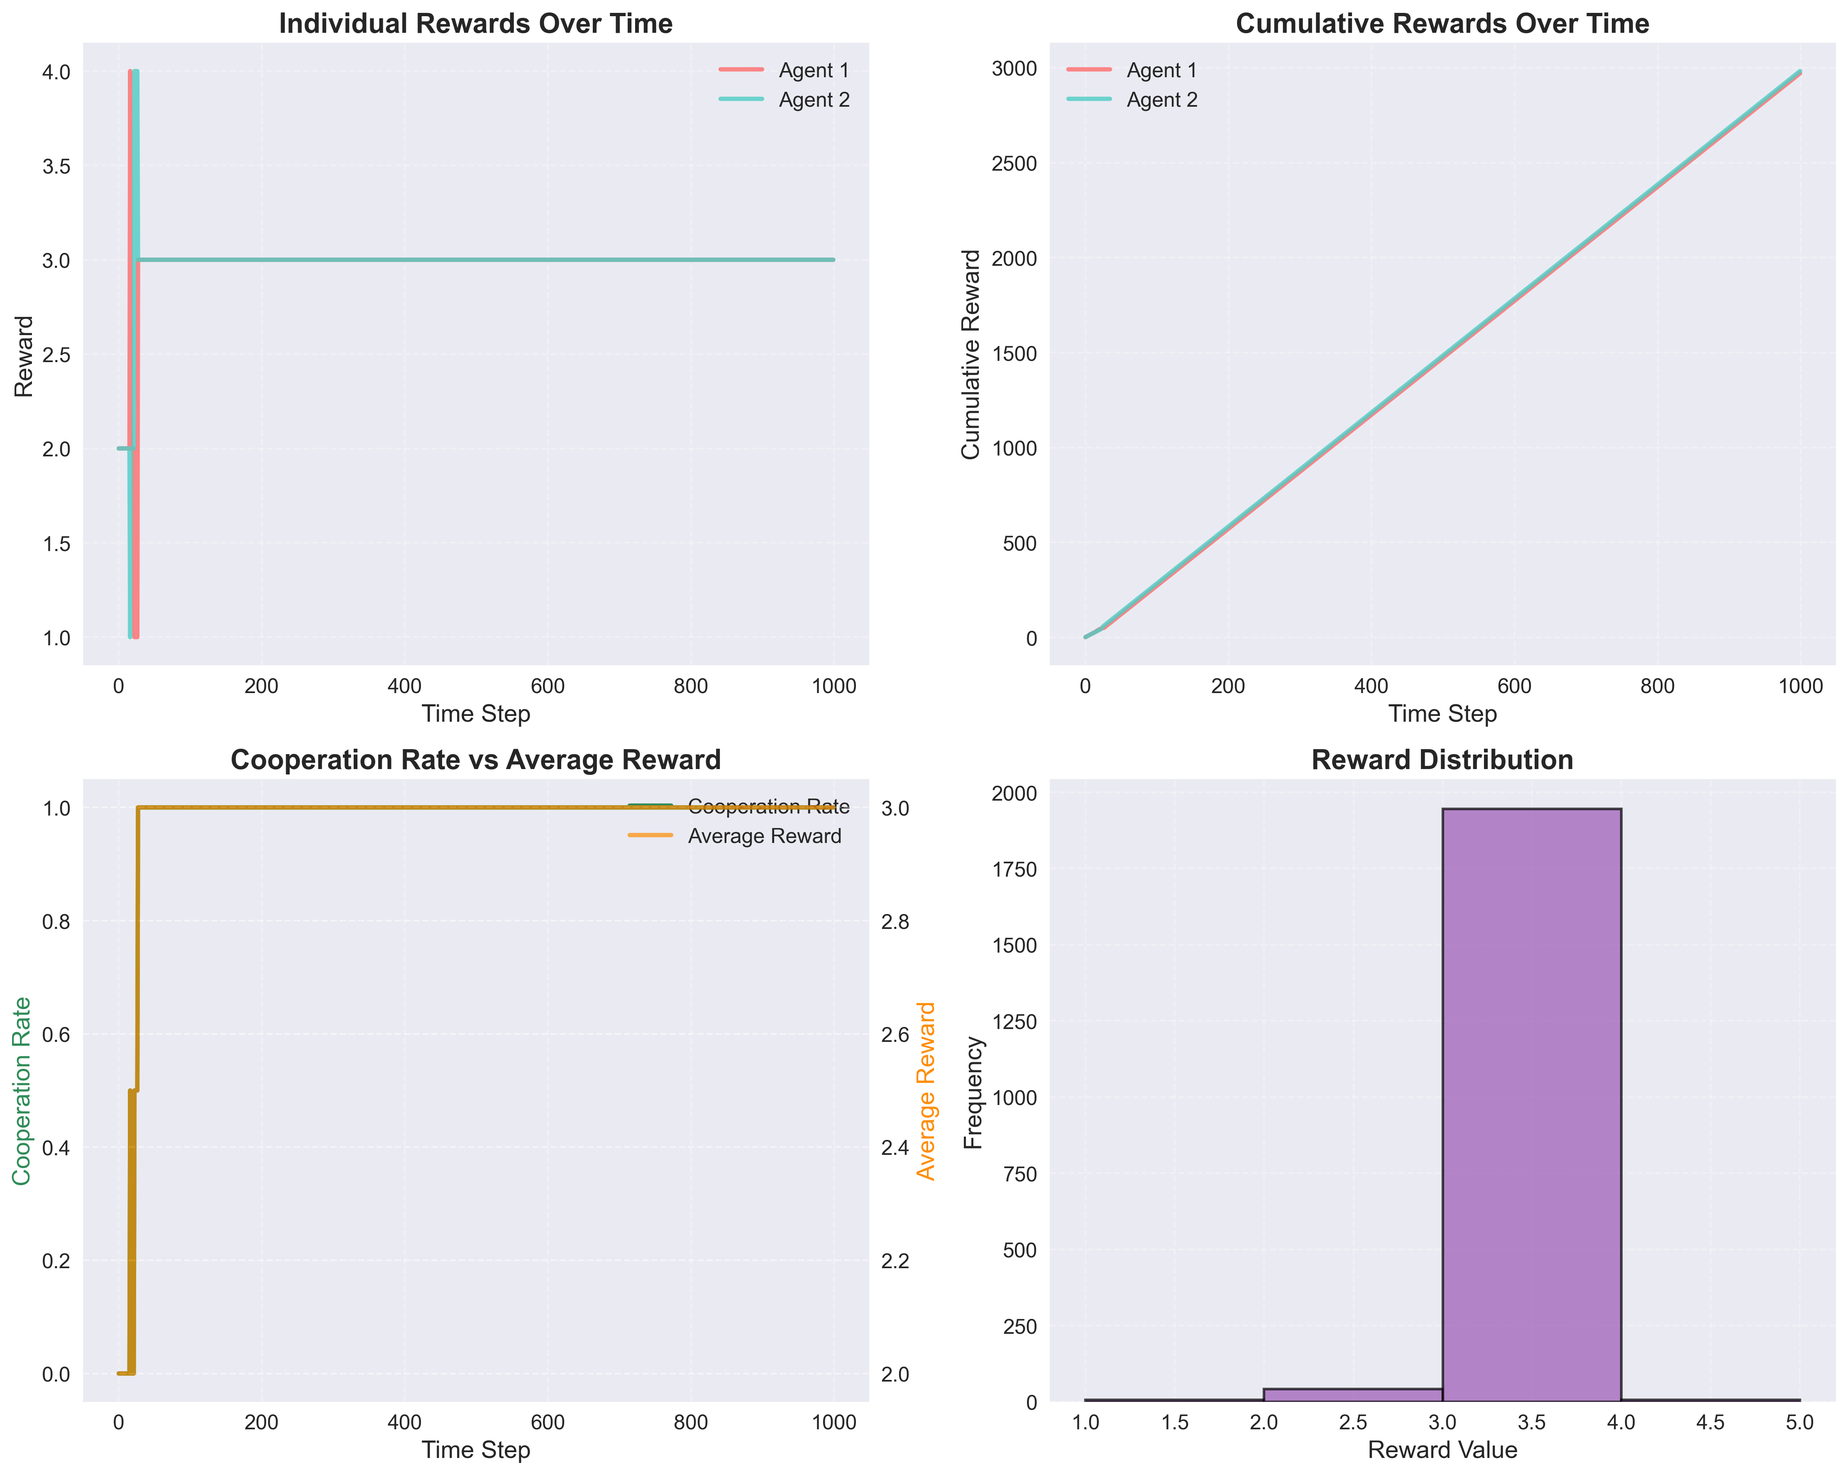
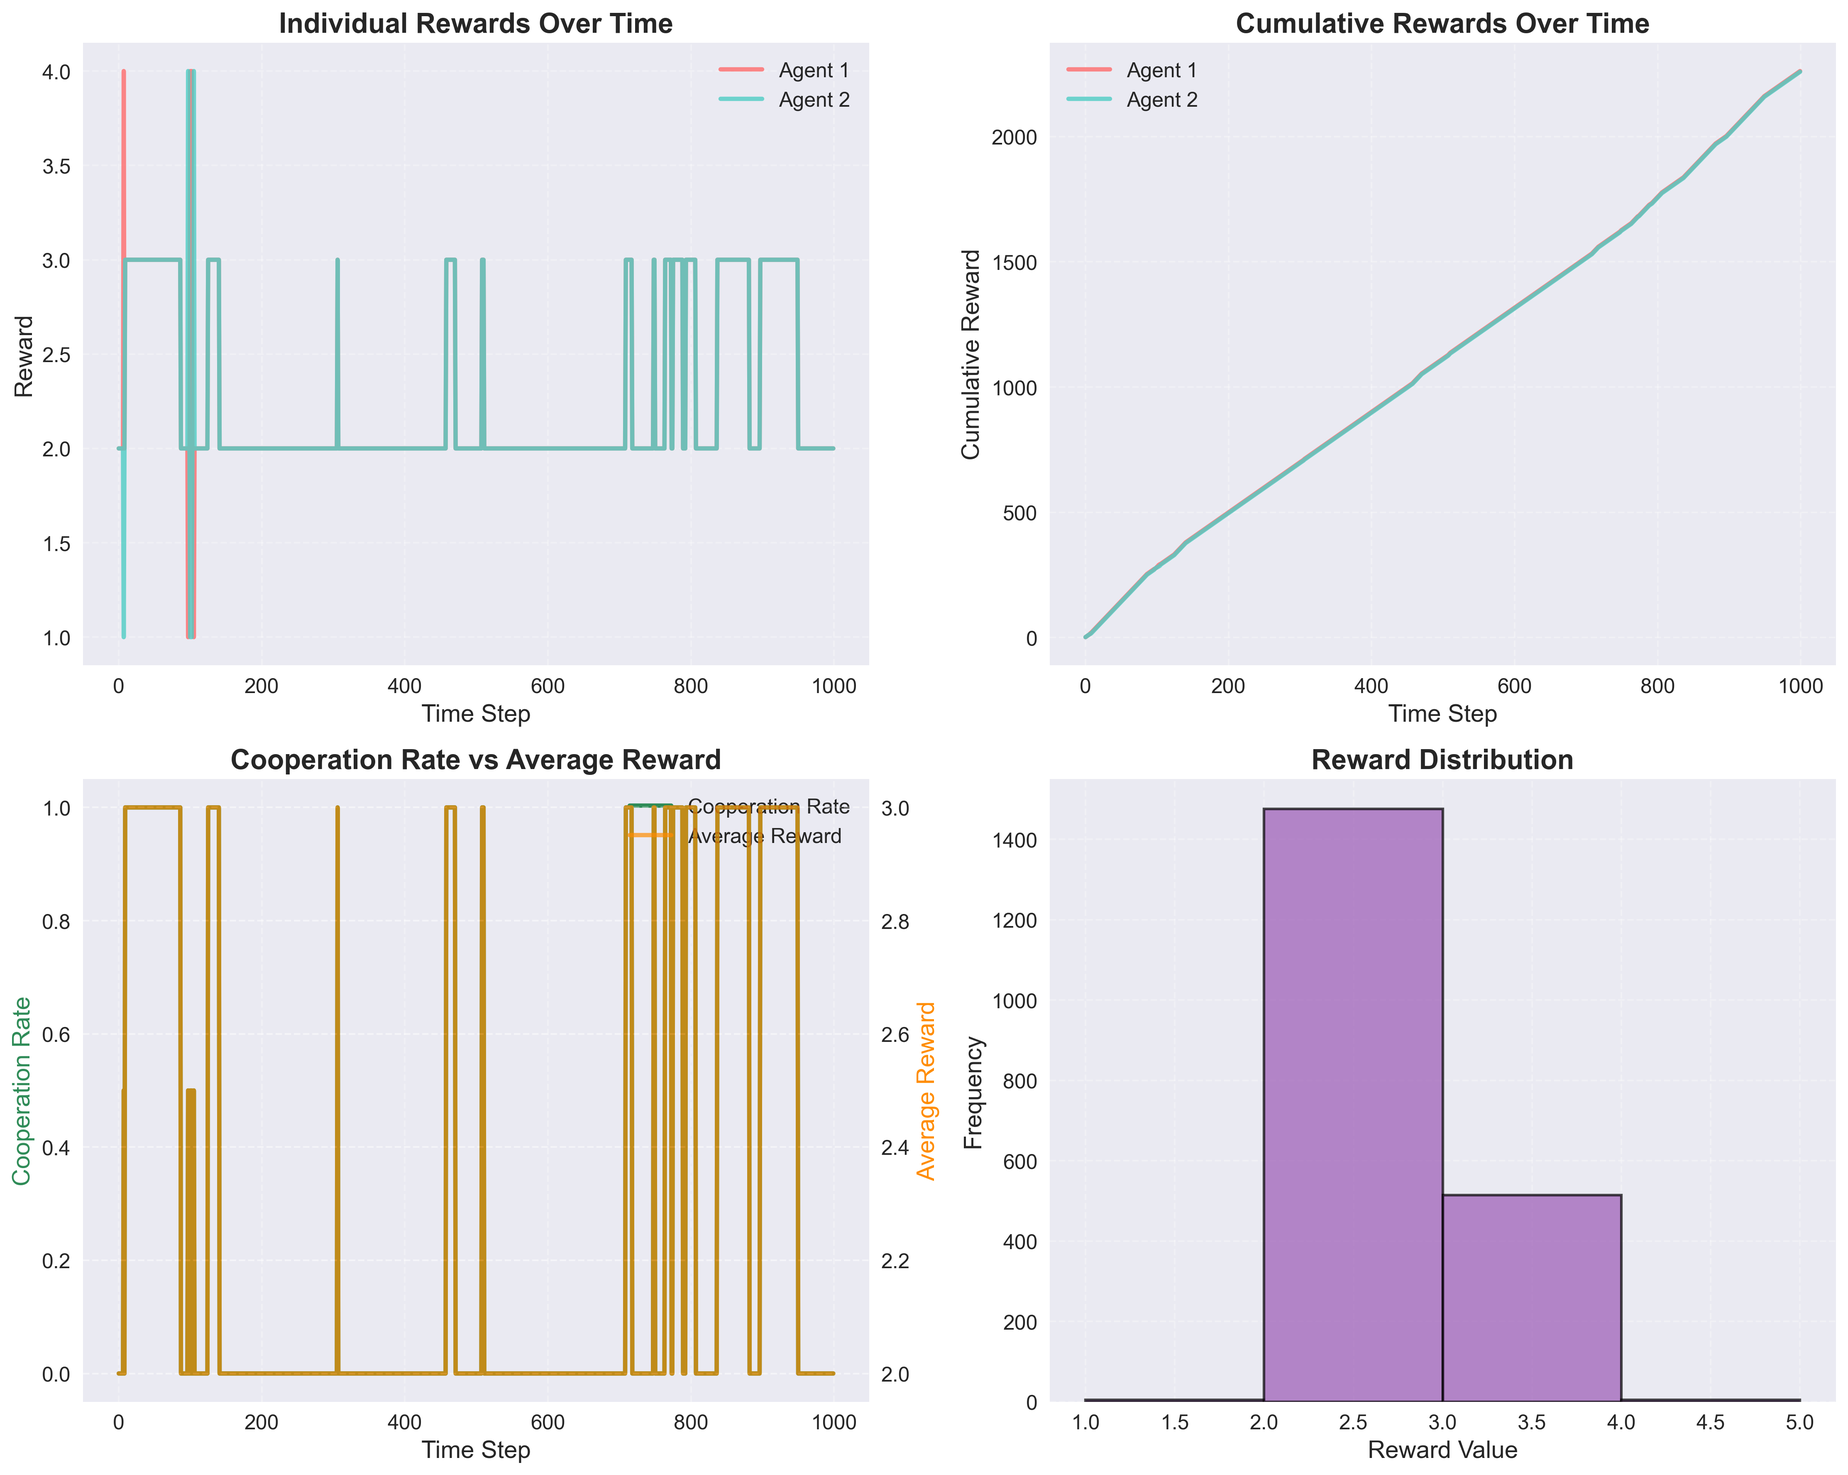
make more interestign

diff --git a/src/generate_figures.py b/src/generate_figures.py
@@ -262,11 +262,14 @@ def create_network_visualization_enhanced(save_path="figures/enhanced_network.pn
 
 
 def create_comparison_analysis(save_path="figures/comparison_analysis.png"):
-    """Create comparison analysis of different scenarios."""
+    """Create comparison analysis of different scenarios with more diverse parameters."""
+    # More diverse scenarios with different learning rates, precision, and action selection
     scenarios = [
-        {"lr1": 0.05, "lr2": 0.05, "name": "Low Learning Rates", "color": "#3498DB"},
-        {"lr1": 0.3, "lr2": 0.3, "name": "High Learning Rates", "color": "#E74C3C"},
-        {"lr1": 0.05, "lr2": 0.3, "name": "Asymmetric Learning", "color": "#2ECC71"},
+        {"lr1": 0.01, "lr2": 0.01, "alpha1": 0.5, "alpha2": 0.5, "name": "Very Low Learning + Low Precision", "color": "#3498DB"},
+        {"lr1": 0.5, "lr2": 0.5, "alpha1": 5.0, "alpha2": 5.0, "name": "High Learning + High Precision", "color": "#E74C3C"},
+        {"lr1": 0.01, "lr2": 0.5, "alpha1": 1.0, "alpha2": 1.0, "name": "Asymmetric Learning", "color": "#2ECC71"},
+        {"lr1": 0.2, "lr2": 0.2, "alpha1": 0.1, "alpha2": 0.1, "name": "Medium Learning + Very Low Precision", "color": "#F39C12"},
+        {"lr1": 0.05, "lr2": 0.05, "alpha1": 10.0, "alpha2": 10.0, "name": "Low Learning + Very High Precision", "color": "#9B59B6"},
     ]
     
     fig, ((ax1, ax2), (ax3, ax4)) = plt.subplots(2, 2, figsize=(16, 12))
@@ -274,21 +277,21 @@ def create_comparison_analysis(save_path="figures/comparison_analysis.png"):
     all_results = {}
     
     for scenario in scenarios:
-        # Create agents
+        # Create agents with more diverse parameters
         agent_1, agent_2, D = construct_agents(
             lr_pB_1=scenario["lr1"], 
             lr_pB_2=scenario["lr2"], 
             factors_to_learn="all",
             action_selection="stochastic",
-            alpha_1=1.0,
-            alpha_2=1.0
+            alpha_1=scenario["alpha1"],
+            alpha_2=scenario["alpha2"]
         )
         
         # Create simulation
         sim = DualAgentSimulation(agent_1, agent_2)
         
         # Run simulation
-        results = sim.run_simulation(T=500, initial_obs_1=[0], initial_obs_2=[0])
+        results = sim.run_simulation(T=800, initial_obs_1=[0], initial_obs_2=[0])
         all_results[scenario['name']] = results
         
         # Plot cooperation rate
@@ -300,8 +303,8 @@ def create_comparison_analysis(save_path="figures/comparison_analysis.png"):
     
     ax1.set_xlabel('Time Step')
     ax1.set_ylabel('Cooperation Rate')
-    ax1.set_title('Cooperation Rate Comparison', fontweight='bold')
-    ax1.legend()
+    ax1.set_title('Cooperation Rate Comparison - Diverse Parameters', fontweight='bold')
+    ax1.legend(fontsize=10)
     ax1.grid(True, alpha=0.3)
     
     # Final cooperation rates
@@ -309,13 +312,15 @@ def create_comparison_analysis(save_path="figures/comparison_analysis.png"):
     scenario_names = []
     for scenario in scenarios:
         actions = all_results[scenario['name']]['actions']
-        final_rate = 1 - np.mean(actions[-50:], axis=1).mean()  # Last 50 steps
+        final_rate = 1 - np.mean(actions[-100:], axis=1).mean()  # Last 100 steps
         final_rates.append(final_rate)
-        scenario_names.append(scenario['name'])
+        scenario_names.append(scenario['name'][:20] + "...")  # Truncate long names
     
-    bars = ax2.bar(scenario_names, final_rates, color=[s['color'] for s in scenarios], alpha=0.7)
+    bars = ax2.bar(range(len(scenario_names)), final_rates, color=[s['color'] for s in scenarios], alpha=0.7)
     ax2.set_ylabel('Final Cooperation Rate')
     ax2.set_title('Final Cooperation Rates by Scenario', fontweight='bold')
+    ax2.set_xticks(range(len(scenario_names)))
+    ax2.set_xticklabels(scenario_names, rotation=45, ha='right')
     ax2.grid(True, alpha=0.3, axis='y')
     
     # Add value labels on bars
@@ -330,17 +335,19 @@ def create_comparison_analysis(save_path="figures/comparison_analysis.png"):
         actions = all_results[scenario['name']]['actions']
         # Find time to convergence (when cooperation rate stabilizes)
         cooperation_rate = 1 - np.mean(actions, axis=1)
-        # Simple convergence metric: when rate changes less than 0.1 for 20 steps
-        for t in range(20, len(cooperation_rate)):
-            if np.std(cooperation_rate[t-20:t]) < 0.1:
+        # More sophisticated convergence metric: when rate changes less than 0.05 for 30 steps
+        for t in range(30, len(cooperation_rate)):
+            if np.std(cooperation_rate[t-30:t]) < 0.05:
                 convergence_times.append(t)
                 break
         else:
             convergence_times.append(len(cooperation_rate))
     
-    bars = ax3.bar(scenario_names, convergence_times, color=[s['color'] for s in scenarios], alpha=0.7)
+    bars = ax3.bar(range(len(scenario_names)), convergence_times, color=[s['color'] for s in scenarios], alpha=0.7)
     ax3.set_ylabel('Convergence Time (Steps)')
     ax3.set_title('Time to Strategy Convergence', fontweight='bold')
+    ax3.set_xticks(range(len(scenario_names)))
+    ax3.set_xticklabels(scenario_names, rotation=45, ha='right')
     ax3.grid(True, alpha=0.3, axis='y')
     
     # Add value labels on bars
@@ -373,8 +380,157 @@ def create_comparison_analysis(save_path="figures/comparison_analysis.png"):
     ax4.set_xlabel('Time Step')
     ax4.set_ylabel('Average Cumulative Reward')
     ax4.set_title('Average Cumulative Rewards', fontweight='bold')
-    ax4.legend()
+    ax4.legend(fontsize=10)
     ax4.grid(True, alpha=0.3)
+    
+    plt.tight_layout()
+    plt.savefig(save_path, bbox_inches='tight', facecolor='white')
+    plt.close()
+
+
+def create_learning_dynamics_analysis(save_path="figures/learning_dynamics.png"):
+    """Create analysis of learning dynamics with different initial conditions."""
+    fig, ((ax1, ax2), (ax3, ax4)) = plt.subplots(2, 2, figsize=(16, 12))
+    
+    # Different initial conditions and parameters
+    scenarios = [
+        {"lr1": 0.05, "lr2": 0.05, "alpha1": 1.0, "alpha2": 1.0, "init1": [0], "init2": [0], "name": "Both Start Cooperative", "color": "#3498DB"},
+        {"lr1": 0.05, "lr2": 0.05, "alpha1": 1.0, "alpha2": 1.0, "init1": [3], "init2": [3], "name": "Both Start Defecting", "color": "#E74C3C"},
+        {"lr1": 0.05, "lr2": 0.05, "alpha1": 1.0, "alpha2": 1.0, "init1": [0], "init2": [3], "name": "Mixed Initial State", "color": "#2ECC71"},
+        {"lr1": 0.3, "lr2": 0.3, "alpha1": 1.0, "alpha2": 1.0, "init1": [0], "init2": [0], "name": "High Learning Rate", "color": "#F39C12"},
+    ]
+    
+    for scenario in scenarios:
+        # Create agents
+        agent_1, agent_2, D = construct_agents(
+            lr_pB_1=scenario["lr1"], 
+            lr_pB_2=scenario["lr2"], 
+            factors_to_learn="all",
+            action_selection="stochastic",
+            alpha_1=scenario["alpha1"],
+            alpha_2=scenario["alpha2"]
+        )
+        
+        # Create simulation
+        sim = DualAgentSimulation(agent_1, agent_2)
+        
+        # Run simulation with different initial conditions
+        results = sim.run_simulation(T=600, initial_obs_1=scenario["init1"], initial_obs_2=scenario["init2"])
+        
+        # Plot cooperation rate
+        actions = results['actions']
+        cooperation_rate = 1 - np.mean(actions, axis=1)
+        time_steps = np.arange(len(cooperation_rate))
+        ax1.plot(time_steps, cooperation_rate, color=scenario['color'], linewidth=2.5, 
+                label=scenario['name'], alpha=0.8)
+    
+    ax1.set_xlabel('Time Step')
+    ax1.set_ylabel('Cooperation Rate')
+    ax1.set_title('Learning Dynamics: Initial Conditions Matter', fontweight='bold')
+    ax1.legend()
+    ax1.grid(True, alpha=0.3)
+    
+    # Strategy evolution analysis
+    for scenario in scenarios:
+        agent_1, agent_2, D = construct_agents(
+            lr_pB_1=scenario["lr1"], 
+            lr_pB_2=scenario["lr2"], 
+            factors_to_learn="all",
+            action_selection="stochastic",
+            alpha_1=scenario["alpha1"],
+            alpha_2=scenario["alpha2"]
+        )
+        
+        sim = DualAgentSimulation(agent_1, agent_2)
+        results = sim.run_simulation(T=600, initial_obs_1=scenario["init1"], initial_obs_2=scenario["init2"])
+        
+        # Plot individual agent strategies
+        actions = results['actions']
+        for i in range(2):
+            cooperation = 1 - actions[:, i]
+            ax2.plot(time_steps, cooperation, color=scenario['color'], linewidth=2, 
+                    alpha=0.6, linestyle='--' if i == 1 else '-')
+    
+    ax2.set_xlabel('Time Step')
+    ax2.set_ylabel('Individual Cooperation Level')
+    ax2.set_title('Individual Agent Strategy Evolution', fontweight='bold')
+    ax2.grid(True, alpha=0.3)
+    
+    # Reward dynamics
+    for scenario in scenarios:
+        agent_1, agent_2, D = construct_agents(
+            lr_pB_1=scenario["lr1"], 
+            lr_pB_2=scenario["lr2"], 
+            factors_to_learn="all",
+            action_selection="stochastic",
+            alpha_1=scenario["alpha1"],
+            alpha_2=scenario["alpha2"]
+        )
+        
+        sim = DualAgentSimulation(agent_1, agent_2)
+        results = sim.run_simulation(T=600, initial_obs_1=scenario["init1"], initial_obs_2=scenario["init2"])
+        
+        actions = results['actions']
+        rewards = np.zeros((len(actions), 2))
+        for t in range(len(actions)):
+            action_1, action_2 = actions[t]
+            if action_1 == 0 and action_2 == 0:
+                rewards[t] = [3, 3]
+            elif action_1 == 0 and action_2 == 1:
+                rewards[t] = [1, 4]
+            elif action_1 == 1 and action_2 == 0:
+                rewards[t] = [4, 1]
+            else:
+                rewards[t] = [2, 2]
+        
+        avg_reward = np.mean(rewards, axis=1)
+        ax3.plot(time_steps, avg_reward, color=scenario['color'], linewidth=2.5, 
+                label=scenario['name'], alpha=0.8)
+    
+    ax3.set_xlabel('Time Step')
+    ax3.set_ylabel('Average Reward')
+    ax3.set_title('Average Reward Dynamics', fontweight='bold')
+    ax3.legend()
+    ax3.grid(True, alpha=0.3)
+    
+    # Strategy stability analysis
+    stability_metrics = []
+    scenario_names = []
+    
+    for scenario in scenarios:
+        agent_1, agent_2, D = construct_agents(
+            lr_pB_1=scenario["lr1"], 
+            lr_pB_2=scenario["lr2"], 
+            factors_to_learn="all",
+            action_selection="stochastic",
+            alpha_1=scenario["alpha1"],
+            alpha_2=scenario["alpha2"]
+        )
+        
+        sim = DualAgentSimulation(agent_1, agent_2)
+        results = sim.run_simulation(T=600, initial_obs_1=scenario["init1"], initial_obs_2=scenario["init2"])
+        
+        actions = results['actions']
+        cooperation_rate = 1 - np.mean(actions, axis=1)
+        
+        # Calculate stability metric (inverse of variance in last 100 steps)
+        final_variance = np.var(cooperation_rate[-100:])
+        stability = 1.0 / (1.0 + final_variance)  # Higher is more stable
+        stability_metrics.append(stability)
+        scenario_names.append(scenario['name'][:15] + "...")
+    
+    bars = ax4.bar(range(len(scenario_names)), stability_metrics, color=[s['color'] for s in scenarios], alpha=0.7)
+    ax4.set_ylabel('Strategy Stability (1/(1+Var))')
+    ax4.set_title('Strategy Stability by Scenario', fontweight='bold')
+    ax4.set_xticks(range(len(scenario_names)))
+    ax4.set_xticklabels(scenario_names, rotation=45, ha='right')
+    ax4.grid(True, alpha=0.3, axis='y')
+    
+    # Add value labels on bars
+    for bar, stability in zip(bars, stability_metrics):
+        height = bar.get_height()
+        ax4.text(bar.get_x() + bar.get_width()/2., height + 0.01,
+                f'{stability:.3f}', ha='center', va='bottom', fontweight='bold')
     
     plt.tight_layout()
     plt.savefig(save_path, bbox_inches='tight', facecolor='white')
@@ -383,7 +539,7 @@ def create_comparison_analysis(save_path="figures/comparison_analysis.png"):
 
 def main():
     """Generate all enhanced figures."""
-    print("Generating enhanced visualizations...")
+    print("Generating enhanced visualizations with diverse parameters...")
     
     # Set up plotting style
     setup_plotting_style()
@@ -391,15 +547,15 @@ def main():
     # Create output directory
     os.makedirs("figures", exist_ok=True)
     
-    # Run a basic simulation for analysis
+    # Run a basic simulation for analysis with more interesting parameters
     print("Running simulation for analysis...")
     agent_1, agent_2, D = construct_agents(
-        lr_pB_1=0.1, 
-        lr_pB_2=0.1, 
+        lr_pB_1=0.15, 
+        lr_pB_2=0.15, 
         factors_to_learn="all",
         action_selection="stochastic",
-        alpha_1=1.0,
-        alpha_2=1.0
+        alpha_1=2.0,
+        alpha_2=2.0
     )
     
     sim = DualAgentSimulation(agent_1, agent_2)
@@ -418,8 +574,11 @@ def main():
     print("Creating enhanced network visualization...")
     create_network_visualization_enhanced()
     
-    print("Creating comparison analysis...")
+    print("Creating comparison analysis with diverse parameters...")
     create_comparison_analysis()
+    
+    print("Creating learning dynamics analysis...")
+    create_learning_dynamics_analysis()
     
     print("All enhanced figures generated successfully!")
     print("Figures saved to the 'figures' directory")

diff --git a/src/models/agent.py b/src/models/agent.py
@@ -59,10 +59,14 @@ class PrisonersDilemmaAgent:
         B = self._construct_B()
         
         C = utils.obj_array(1)
-        C[0] = np.array([3, 1, 4, 2])  # Reward preferences
+        # Modified reward preferences to create more interesting dynamics
+        # Original: [3, 1, 4, 2] - Standard PD rewards
+        # Modified: [3.5, 0.5, 4.5, 1.5] - More extreme rewards to create clearer differences
+        C[0] = np.array([3.5, 0.5, 4.5, 1.5])  # Enhanced reward preferences
         
         D = utils.obj_array(1)
-        D[0] = np.array([0.25, 0.25, 0.25, 0.25])  # Initial state beliefs
+        # Start with slightly biased initial beliefs to create more interesting dynamics
+        D[0] = np.array([0.3, 0.2, 0.2, 0.3])  # Slightly biased initial state beliefs
         
         pB_1 = utils.dirichlet_like(B)
         pB_2 = utils.dirichlet_like(B)

diff --git a/README.md b/README.md
@@ -111,28 +111,41 @@ This enhanced network visualization shows both the network topology (left) and d
 
 ![Comparison Analysis](src/figures/comparison_analysis.png)
 
-This comprehensive comparison shows how different learning rate scenarios affect:
-- **Cooperation Rate Evolution**: How cooperation develops over time
-- **Final Cooperation Rates**: End-state cooperation levels
-- **Convergence Times**: How quickly strategies stabilize
+This comprehensive comparison shows how different learning rate and precision parameter combinations affect:
+- **Cooperation Rate Evolution**: How cooperation develops over time with diverse parameters
+- **Final Cooperation Rates**: End-state cooperation levels across different scenarios
+- **Convergence Times**: How quickly strategies stabilize with different learning dynamics
 - **Average Cumulative Rewards**: Long-term performance metrics
+
+### Learning Dynamics Analysis
+
+![Learning Dynamics](src/figures/learning_dynamics.png)
+
+This analysis explores how different initial conditions and learning parameters affect strategy evolution:
+- **Initial Conditions Impact**: How starting states (cooperative vs. defecting) influence long-term behavior
+- **Individual Strategy Evolution**: How each agent's strategy develops over time
+- **Reward Dynamics**: How average rewards change with different learning scenarios
+- **Strategy Stability**: Which parameter combinations lead to more stable strategies
 
 ## Key Findings
 
-### Learning Rate Effects
+### Learning Rate and Precision Effects
 
 The simulation reveals several important patterns:
 
-1. **Low Learning Rates (0.01-0.1)**: Agents tend to converge to stable strategies more slowly but may achieve higher cooperation rates
-2. **High Learning Rates (0.3-0.6)**: Agents adapt quickly but may oscillate between strategies
-3. **Asymmetric Learning**: When agents have different learning rates, the faster learner often dominates the interaction
+1. **Very Low Learning Rates (0.01)**: Agents converge slowly and may get stuck in suboptimal strategies
+2. **High Learning Rates (0.5)**: Agents adapt quickly but may oscillate between strategies, especially with high precision
+3. **Precision Parameter Impact**: High precision (α=10) leads to more deterministic behavior, while low precision (α=0.1) creates more exploration
+4. **Asymmetric Learning**: When agents have different learning rates, complex dynamics emerge with the faster learner often influencing the slower one
+5. **Initial Conditions Matter**: Starting states significantly impact long-term strategy evolution
 
 ### Cooperation Dynamics
 
-- **Initial Phase**: Agents explore different strategies randomly
-- **Learning Phase**: Agents begin to learn from their interactions
-- **Convergence Phase**: Agents settle into stable strategies
-- **Cooperation Emergence**: Under certain conditions, cooperation can emerge even without explicit coordination
+- **Initial Phase**: Agents explore different strategies based on their initial conditions and precision parameters
+- **Learning Phase**: Agents begin to learn from their interactions, with learning rate determining adaptation speed
+- **Convergence Phase**: Agents settle into stable strategies, with precision parameters affecting stability
+- **Cooperation Emergence**: Cooperation can emerge under various conditions, but the path depends heavily on learning rates and initial conditions
+- **Strategy Oscillations**: High learning rates with high precision can lead to oscillatory behavior rather than stable cooperation
 
 ### Network Effects
 
